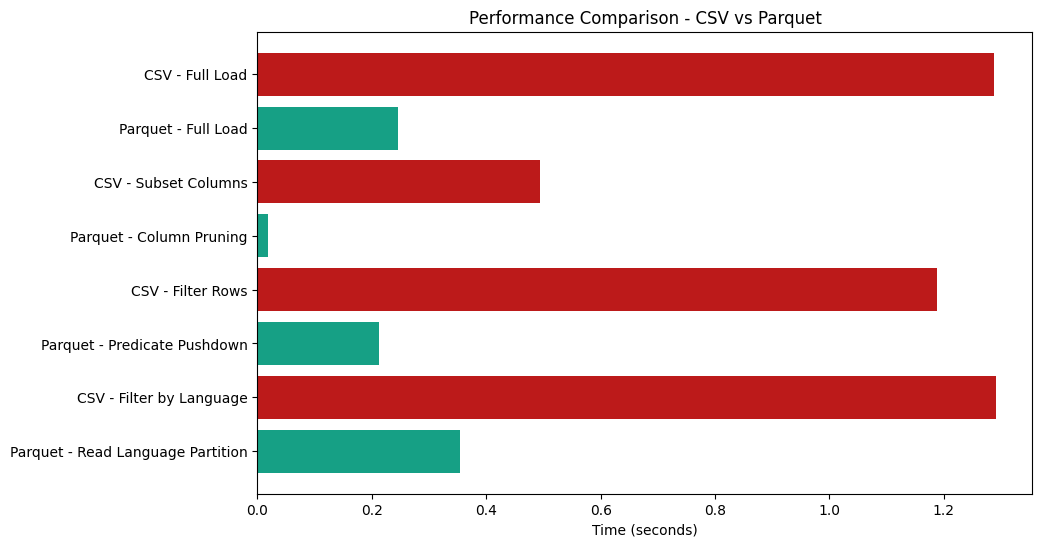
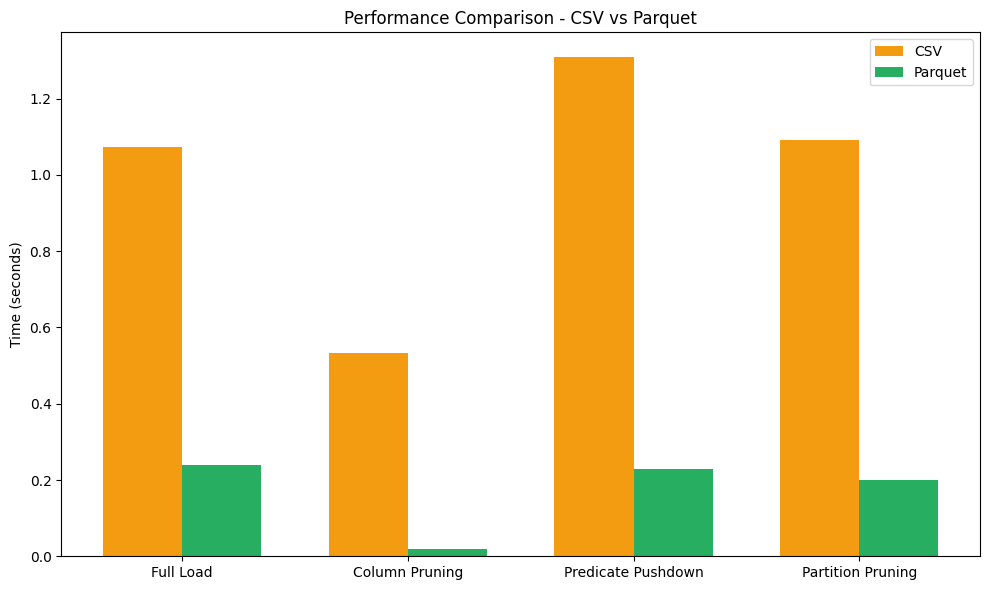
Update README and Jupyter notebook for clarity and accuracy; modify compression method in benchmarks and enhance visualizations

diff --git a/README.md b/README.md
@@ -1,8 +1,8 @@
-# Apache Parquet vs CSV Benchmarking Demo
+# Apache Parquet vs CSV - Benchmarking and Visualization
 
 [![License: MIT](https://img.shields.io/badge/License-MIT-yellow.svg)](LICENSE) [![Python](https://img.shields.io/badge/Python-3.13-blue.svg)](https://www.python.org/) [![pandas](https://img.shields.io/badge/pandas-2.2-blue.svg)](https://pandas.pydata.org/) [![fastparquet](https://img.shields.io/badge/fastparquet-2024.5.0-blue.svg)](https://fastparquet.readthedocs.io/) [![matplotlib](https://img.shields.io/badge/matplotlib-3.9-blue.svg)](https://matplotlib.org/) 
 
-This project demonstrates the performance advantages of Apache Parquet over CSV format for data storage and processing. Using the "Best Books Ever" dataset, it compares file sizes, read performance, and advanced features like column selection, predicate pushdown, and partition pruning.
+This project demonstrates the performance advantages of Apache Parquet over CSV format for data storage and processing. Using the "Best Books Ever" dataset, it compares file sizes, read performance, and advanced features like column selection, predicate pushdown and partition pruning.
 
 ## ✨ Features
 
@@ -98,8 +98,8 @@ Typical results show significant storage savings:
 =============== File Size Comparison ==============
 CSV                       70.43 MB
 Parquet (default)         40.66 MB  (42.3% smaller)
-Parquet (compressed)      25.36 MB  (64.0% smaller)
-Parquet (comp/partioned)  23.32 MB  (66.9% smaller)
+Parquet (compressed)      24.40 MB  (65.4% smaller)
+Parquet (comp/partioned)  22.48 MB  (68.1% smaller)
 ```
 
 ### Performance Improvements
@@ -108,20 +108,24 @@ Benchmark results demonstrate Parquet's advantages:
 
 ```
 =================== Load Full Dataset ====================
-CSV                                           Time: 1.203s
-Parquet                                       Time: 0.227s
+CSV                                           Time: 1.219s
+Parquet                                       Time: 0.202s
+========================= Parquet is 83.4% faster than CSV
 
 ===== Load Subset of Columns (title, author, rating) =====
-CSV - Column Subset                           Time: 0.520s
+CSV - Column Subset                           Time: 0.563s
 Parquet - Column Pruning                      Time: 0.020s
+========================= Parquet is 96.4% faster than CSV
 
 ============= Load Rows Where: rating > 4.5 ==============
-CSV - Filter Rows After Load                  Time: 1.220s
-Parquet - Predicate Pushdown                  Time: 0.207s
+CSV - Filter Rows After Load                  Time: 1.265s
+Parquet - Predicate Pushdown                  Time: 0.228s
+========================= Parquet is 82.0% faster than CSV
 
 ========= Load Rows Where: language == 'English' =========
-CSV - Filter Rows After Load                  Time: 1.245s
-Parquet - Partition Pruning                   Time: 0.389s
+CSV - Filter Rows After Load                  Time: 1.313s
+Parquet - Partition Pruning                   Time: 0.235s
+========================= Parquet is 82.1% faster than CSV
 ```
 
 ### Visual Charts
